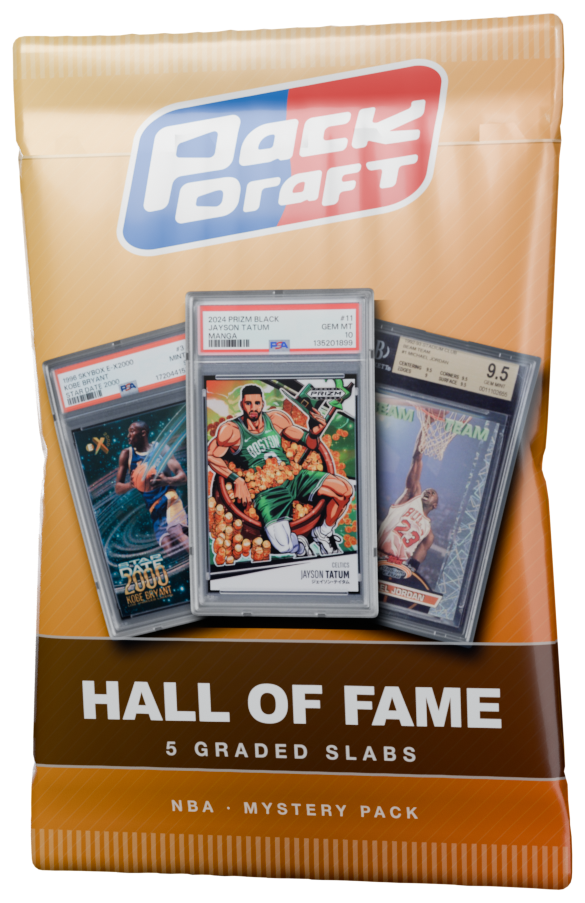
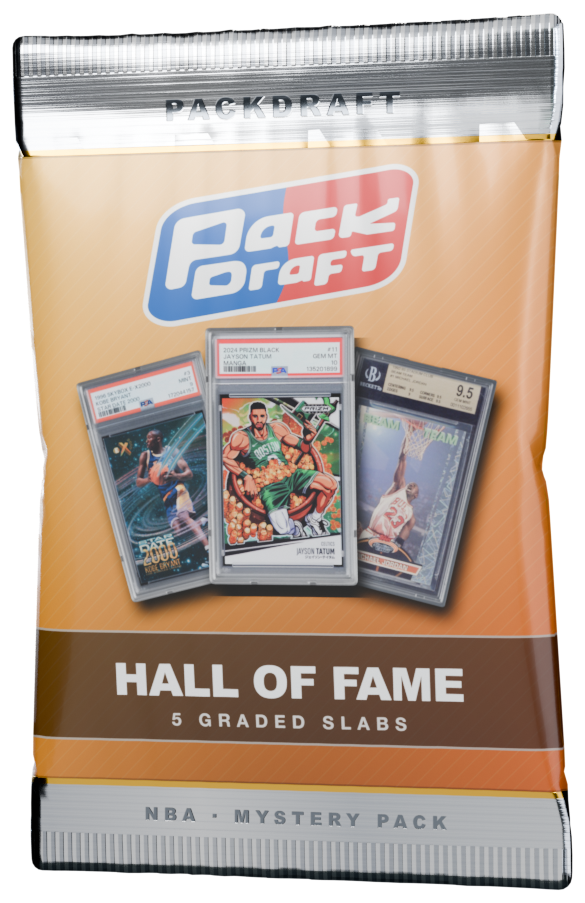
Pack renders: chrome tear strip and bottom seal, art only in the middle panel

diff --git a/src/app/packs/VendingMachine.tsx b/src/app/packs/VendingMachine.tsx
@@ -22,7 +22,7 @@ function PackArt({ p, big, md, slabs }: { p: PackType; big?: boolean; md?: boole
   const [w, h] = PACK_SIZE[big ? "big" : md ? "md" : "sm"];
   return (
     // eslint-disable-next-line @next/next/no-img-element
-    <img src={`/packs/${p.id}.png`} alt={p.name} width={w} height={h} draggable={false} onError={() => setFailed(true)}
+    <img src={`/packs/${p.id}.png?v=2`} alt={p.name} width={w} height={h} draggable={false} onError={() => setFailed(true)}
       className="block select-none object-contain" style={{ width: w, height: h, filter: "drop-shadow(0 14px 18px rgba(0,0,0,.45))" }} />
   );
 }

diff --git a/scripts/pack-renders/render.py b/scripts/pack-renders/render.py
@@ -53,6 +53,23 @@ area("Shop_Key", (-0.25, -0.3, 0.22), 6, 0.25)
 area("Shop_Fill", (0.3, -0.25, 0.0), 1.8, 0.35, (0.85, 0.9, 1))
 area("Shop_Rim", (0.12, 0.3, 0.25), 7, 0.2, (1, 0.95, 0.9))
 
+# Soft white reflector cards (hidden from the camera) so the chrome ends mirror something bright.
+def card(name, loc, size, strength):
+    me = bpy.data.meshes.get(name) or bpy.data.meshes.new(name)
+    me.clear_geometry(); me.from_pydata([(-size, -size, 0), (size, -size, 0), (size, size, 0), (-size, size, 0)], [], [(0, 1, 2, 3)])
+    o = obj(name, me)
+    o.location = loc
+    o.rotation_euler = (Vector((0, 0, 0)) - Vector(loc)).to_track_quat("Z", "Y").to_euler()
+    m = bpy.data.materials.get(name) or bpy.data.materials.new(name); m.use_nodes = True
+    mn = m.node_tree.nodes; mn.clear()
+    em, mo = mn.new("ShaderNodeEmission"), mn.new("ShaderNodeOutputMaterial")
+    em.inputs["Strength"].default_value = strength
+    m.node_tree.links.new(em.outputs[0], mo.inputs["Surface"])
+    me.materials.clear(); me.materials.append(m)
+    o.visible_camera = False; o.visible_shadow = False; o.hide_render = False
+card("Shop_Reflector_Top", (0, -0.2, 0.3), 0.2, 2.0)
+card("Shop_Reflector_Low", (-0.1, -0.3, -0.2), 0.2, 1.5)
+
 w = sc.world or bpy.data.worlds.new("World"); sc.world = w
 w.use_nodes = True
 nt = w.node_tree; nt.nodes.clear()
@@ -74,6 +91,29 @@ def setup(mat):
     bsdf.inputs["Roughness"].default_value = 0.3
     if "Coat Weight" in bsdf.inputs: bsdf.inputs["Coat Weight"].default_value = 0.25; bsdf.inputs["Coat Roughness"].default_value = 0.08
     tex.interpolation = "Cubic"
+    # Chrome ends: the tear strip (v > 0.834) and bottom seal (v < 0.14) become polished metal with bumpy crimps.
+    nt = mat.node_tree
+    for x in [x for x in n if x.label.startswith("chrome")]: n.remove(x)
+    def node(t, label, **kw):
+        x = n.new(t); x.label = "chrome " + label
+        for k, v in kw.items(): setattr(x, k, v)
+        return x
+    uv = node("ShaderNodeUVMap", "uv", uv_map="PackUV")
+    sep = node("ShaderNodeSeparateXYZ", "sep")
+    hi = node("ShaderNodeMath", "hi", operation="GREATER_THAN"); hi.inputs[1].default_value = 0.834
+    lo = node("ShaderNodeMath", "lo", operation="LESS_THAN"); lo.inputs[1].default_value = 0.14
+    mask = node("ShaderNodeMath", "mask", operation="MAXIMUM")
+    met = node("ShaderNodeMapRange", "metal"); met.inputs["To Min"].default_value = 0.2; met.inputs["To Max"].default_value = 1.0
+    rough = node("ShaderNodeMapRange", "rough"); rough.inputs["To Min"].default_value = 0.3; rough.inputs["To Max"].default_value = 0.17
+    bump = node("ShaderNodeBump", "bump"); bump.inputs["Distance"].default_value = 0.0004
+    bstr = node("ShaderNodeMath", "bstr", operation="MULTIPLY"); bstr.inputs[1].default_value = 0.25
+    L = nt.links.new
+    L(uv.outputs["UV"], sep.inputs[0]); L(uv.outputs["UV"], tex.inputs["Vector"])
+    L(sep.outputs["Y"], hi.inputs[0]); L(sep.outputs["Y"], lo.inputs[0])
+    L(hi.outputs[0], mask.inputs[0]); L(lo.outputs[0], mask.inputs[1])
+    L(mask.outputs[0], met.inputs["Value"]); L(mask.outputs[0], rough.inputs["Value"]); L(mask.outputs[0], bstr.inputs[0])
+    L(met.outputs["Result"], bsdf.inputs["Metallic"]); L(rough.outputs["Result"], bsdf.inputs["Roughness"])
+    L(bstr.outputs[0], bump.inputs["Strength"]); L(tex.outputs["Color"], bump.inputs["Height"]); L(bump.outputs["Normal"], bsdf.inputs["Normal"])
     return tex
 tf, tb = setup(bpy.data.materials["M_PackFront"]), setup(bpy.data.materials["M_PackBack"])
 
